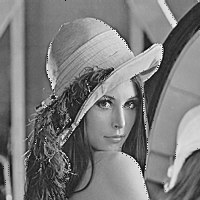
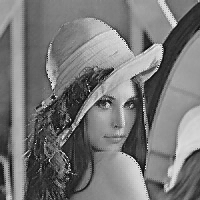
修改一堆bug

diff --git a/src/receiver/reconstruction.py b/src/receiver/reconstruction.py
@@ -40,12 +40,13 @@ class Receiver:
             while j < self.W:
                 if self.LM[i, j] == 1:
                     # print(data_k)
+                    data_k = 0
                     if length < b_length:
                         self.data <<= 1
                         data_k = int(self.ans[i, j] / 128)
                         self.data = self.data | data_k
                         length += 1
-                    self.ans[i, j] = 0
+                    self.ans[i, j] -= 128 * data_k
                 j += 1
             i, j = i + 1, 0
         self.data = bin(self.data)[-1:1:-1]
@@ -87,7 +88,7 @@ class Receiver:
                 j += 1
             i += 1
             j = 0
-        # Receiver.save(self.PEE, 'PEE.png')
+        Receiver.save(self.PEE, 'PEE.png')
 
         #将图片分解为四部分
         #得到PE_stars(PEA)
@@ -101,7 +102,7 @@ class Receiver:
                 self.PE_stars[2][i, j] = self.PEE[2 * i + 1, 2 * j]
                 self.PE_stars[3][i, j] = self.PEE[2 * i + 1, 2 * j + 1]
         self.PEAs_whole = Receiver.composition(self.PE_stars[0], self.PE_stars[1], self.PE_stars[2], self.PE_stars[3])
-        # Receiver.save(self.PEAs_whole, 'PEAs.png')
+        Receiver.save(self.PEAs_whole, 'PEAs.png')
 
         #由I[0]获得预测矩阵Ps
         for i in range(0, 4):
@@ -111,14 +112,14 @@ class Receiver:
         self.__predict02()
         self.__predict03()
         self.Ps_whole = Receiver.composition(self.Ps[0], self.Ps[1], self.Ps[2], self.Ps[3])
-        # Receiver.save(self.Ps_whole, 'Ps.png')
+        Receiver.save(self.Ps_whole, 'Ps.png')
 
         #PEEs加上预测矩阵Ps
         #得到Is
         for j in range(1, 4):
             self.Is[j] += self.Ps[j]
         self.Is_whole = Receiver.composition(self.Is[0], self.Is[1], self.Is[2], self.Is[3])
-        # Receiver.save(self.Is_whole, 'Is.png')
+        Receiver.save(self.Is_whole, 'Is.png')
 
         #将Is四部分按原放回
         #得到复原图res
@@ -130,7 +131,7 @@ class Receiver:
                 self.res_img[2 * i, 2 * j + 1] = self.Is[1][i, j]
                 self.res_img[2 * i + 1, 2 * j] = self.Is[2][i, j]
                 self.res_img[2 * i + 1, 2 * j + 1] = self.Is[3][i, j]
-        # Receiver.save(self.res_img, 'res.png')
+        Receiver.save(self.res_img, 'res.png')
 
     @staticmethod
     def predict_method1(a, b):
@@ -146,8 +147,9 @@ class Receiver:
         self.Ps[1] = np.zeros((h, w), np.int)
         for i in range(h):
             for j in range(w):
-                if i < h - 1:
-                    self.Ps[1][i, j] = self.predict_method(I0[i, j], I0[i + 1, j])
+                if j < w - 1:
+                    # self.Ps[1][i, j] = self.predict_method(I0[i, j], I0[i + 1, j])
+                    self.Ps[1][i, j] = self.predict_method(I0[i, j], I0[i, j + 1])
                 else:
                     self.Ps[1][i, j] = I0[i, j]
 
@@ -157,8 +159,9 @@ class Receiver:
         self.Ps[2] = np.zeros((h, w), np.int)
         for i in range(h):
             for j in range(w):
-                if j < w - 1:
-                    self.Ps[2][i, j] = self.predict_method(I0[i, j + 1], I0[i, j])
+                if i < h - 1:
+                    # self.Ps[2][i, j] = self.predict_method(I0[i, j + 1], I0[i, j])
+                    self.Ps[2][i, j] = self.predict_method(I0[i, j], I0[i + 1, j])
                 else:
                     self.Ps[2][i, j] = I0[i, j]
 
@@ -195,6 +198,7 @@ class Receiver:
         :param pth: 存储的路径
         :return:
         """
+        root_path = pu.get_root_path()
         out = pu.path_join(root_path, pu.REC_PATH)
         pth = pu.path_join(out, name)
         iu.save_img(img, pth)

diff --git a/src/encryption/encryptor.py b/src/encryption/encryptor.py
@@ -74,19 +74,26 @@ class Encryptor:
             # self.PEs[i] = self.Ps[i] - self.Is[i]
             self.PEs.append(self.Is[i] - self.Ps[i])
         self.PE_stars.append(np.copy(self.Is[0]))
-        for i in range(1, 4):
-            self.PE_stars.append(np.copy(self.PEs[i]))
-            self.PE_stars[i][self.PE_stars[i] < 0] = abs(self.PE_stars[i][self.PE_stars[i] < 0]) + 64
-        # 计算PEA
         self.PEAs.append(np.copy(self.PE_stars[0]))
         self.raw_LM.append(np.zeros(self.PEAs[0].shape, np.bool))
         for i in range(1, 4):
-            self.PEAs.append(np.copy(self.PE_stars[i]))
+            self.PE_stars.append(np.copy(self.PEs[i]))
             temp = np.zeros(self.Is[i].shape, np.bool)
-            temp[self.PE_stars[i] < 64] = 1
+            temp[self.PE_stars[i] >= 0] = 1
+            self.PE_stars[i][self.PE_stars[i] < 0] = abs(self.PE_stars[i][self.PE_stars[i] < 0]) + 64
             self.raw_LM.append(temp)
-            # self.PEAs[i][self.PE_stars[i] > 64] = self.PEAs[i][self.PE_stars[i] > 64] | 0b10000000
-            # self.PEAs[i][self.PE_stars[i] < 64] = self.PEAs[i][self.PE_stars[i] < 64] & 0b01111111
+            self.PEAs.append(np.copy(self.PE_stars[i]))
+
+        # # 计算PEA
+        # self.PEAs.append(np.copy(self.PE_stars[0]))
+        # self.raw_LM.append(np.zeros(self.PEAs[0].shape, np.bool))
+        # for i in range(1, 4):
+        #     self.PEAs.append(np.copy(self.PE_stars[i]))
+        #     temp = np.zeros(self.Is[i].shape, np.bool)
+        #     temp[self.PE_stars[i] < 64] = 1
+        #     self.raw_LM.append(temp)
+        #     # self.PEAs[i][self.PE_stars[i] > 64] = self.PEAs[i][self.PE_stars[i] > 64] | 0b10000000
+        #     # self.PEAs[i][self.PE_stars[i] < 64] = self.PEAs[i][self.PE_stars[i] < 64] & 0b01111111
 
     @staticmethod
     def predict_method1(a, b):
@@ -102,8 +109,9 @@ class Encryptor:
         self.Ps[1] = np.zeros((h, w), np.int)
         for i in range(h):
             for j in range(w):
-                if i < h - 1:
-                    self.Ps[1][i, j] = self.predict_method(I0[i, j], I0[i + 1, j])
+                if j < w - 1:
+                    # self.Ps[1][i, j] = self.predict_method(I0[i, j], I0[i + 1, j])
+                    self.Ps[1][i, j] = self.predict_method(I0[i, j], I0[i, j + 1])
                 else:
                     self.Ps[1][i, j] = I0[i, j]
 
@@ -113,8 +121,9 @@ class Encryptor:
         self.Ps[2] = np.zeros((h, w), np.int)
         for i in range(h):
             for j in range(w):
-                if j < w - 1:
-                    self.Ps[2][i, j] = self.predict_method(I0[i, j + 1], I0[i, j])
+                if i < h - 1:
+                    # self.Ps[2][i, j] = self.predict_method(I0[i, j + 1], I0[i, j])
+                    self.Ps[2][i, j] = self.predict_method(I0[i, j], I0[i + 1, j])
                 else:
                     self.Ps[2][i, j] = I0[i, j]
 

diff --git a/src/main.py b/src/main.py
@@ -1,23 +1,35 @@
 import src.util.image_util as iu
 import src.util.path_util as pu
 import cv2
+from src.util.encrypt_util import encrypt
+from src.receiver.decryption import decryptioner, secretKey
+import numpy as np
 
 if __name__ == '__main__':
+    # root_path = pu.get_root_path()
+    # file_name = "200px-Lenna.jpg"
+    # file_path = pu.path_join(root_path, pu.INPUT_PATH, file_name)
+    #
+    # gray_lena = iu.read_img(file_path, iu.READ_GRAY)
+    # color_lena = iu.read_img(file_path, iu.READ_COLOR)
+    #
+    # lab_lena = cv2.cvtColor(color_lena, cv2.COLOR_RGB2LAB)
+    # iu.print_img(lab_lena)
+    #
+    # iu.print_img(gray_lena, "gray lena")
+    # iu.print_img(color_lena, "colorful lena")
+    #
+    # out_file_name = "200px-Gray-Lenna.jpg"
+    # out_file_path = pu.path_join(root_path, pu.OUTPUT_PATH, out_file_name)
+    #
+    # # iu.save_img(gray_lena, out_file_path)
+    # iu.print_imgs(gray_lena, color_lena)
+
     root_path = pu.get_root_path()
-    file_name = "200px-Lenna.jpg"
-    file_path = pu.path_join(root_path, pu.INPUT_PATH, file_name)
+    img = iu.read_img(pu.path_join(root_path, "static/input/trees.png"), iu.READ_GRAY)
 
-    gray_lena = iu.read_img(file_path, iu.READ_GRAY)
-    color_lena = iu.read_img(file_path, iu.READ_COLOR)
+    e = encrypt(img, secretKey, 256)
+    d = decryptioner(e, secretKey, 256)
 
-    lab_lena = cv2.cvtColor(color_lena, cv2.COLOR_RGB2LAB)
-    iu.print_img(lab_lena)
-
-    iu.print_img(gray_lena, "gray lena")
-    iu.print_img(color_lena, "colorful lena")
-
-    out_file_name = "200px-Gray-Lenna.jpg"
-    out_file_path = pu.path_join(root_path, pu.OUTPUT_PATH, out_file_name)
-
-    # iu.save_img(gray_lena, out_file_path)
-    iu.print_imgs(gray_lena, color_lena)
+    diff = np.sum(abs(d.astype(np.int) - img.astype(np.int)))
+    print(diff)

diff --git a/src/analysis/analysis.py b/src/analysis/analysis.py
@@ -1,4 +1,5 @@
-import numpy as np
+import src.util.image_util as iu
+import src.util.path_util as pu
 import math
 
 
@@ -37,32 +38,43 @@ def ent_analysis(x):
             current = x[i, j]
             if current not in labels.keys():
                 labels[current] = 0
-        labels[current] += 1
+            labels[current] += 1
     shannon_ent = 0.0  # 香农熵
     chi_ent = 0.0  # χ2
     for key in labels:
         prob = float(labels[key]) / scale  # 选择该标签的概率
-        shannon_ent -= prob * log(prob, 2)
+        if prob == 0:
+            continue
+        shannon_ent -= prob * math.log(prob, 2)
         chi_ent += (prob - 1 / 256) ** 2
     chi_ent = chi_ent * 256 * scale
     return shannon_ent, chi_ent
 
 
-def npcr_uaci_analysis(x,y):
+def npcr_uaci_analysis(x, y):
     [rows, cols] = x.shape
     scale = rows * cols
-    npcr=0.0
-    uaci=0.0
+    npcr = 0.0
+    uaci = 0.0
     for i in range(rows):
         for j in range(cols):
-            d=x[i,j]-y[i,j]
-            if d==0:
-                d=1
+            d = x[i, j] - y[i, j]
+            if d == 0:
+                d = 1
             else:
-                d=0
-            npcr+=d
-            uaci+=abs(x[i,j]-y[i,j])
-    npcr/=scale
-    uaci/=255*scale
-    return npcr,uaci
+                d = 0
+            npcr += d
+            uaci += abs(x[i, j] - y[i, j])
+    npcr /= scale
+    uaci /= (255 * scale)
+    return 1 - npcr, uaci
 
+
+if __name__ == "__main__":
+    root_path = pu.get_root_path()
+    img1 = iu.read_img(pu.path_join(root_path, "static/test/unchanged/image.png"), iu.READ_GRAY)
+    img2 = iu.read_img(pu.path_join(root_path, "static/test/changed/image.png"), iu.READ_GRAY)
+
+    print(npcr_uaci_analysis(img1, img2))
+    print(ent_analysis(img2))
+    print(cor_analysis(img1, img2))

diff --git a/src/receiver/decryption.py b/src/receiver/decryption.py
@@ -1,7 +1,9 @@
 import numpy
 import math
-
+import src.util.image_util as iu
+import src.util.path_util as pu
 from src.encryption_2d_lscm.InitialStateGeneration import init_confusion_matrix, init_states
+import numpy as np
 
 # 测试数据
 '''
@@ -22,6 +24,7 @@ secretKey = {
     "a4": [1, 0, 1, 1, 0, 1, 1, 0, 1, 1, 1, 0, 1, 1, 0, 0, 1, 0, 1, 0, 1, 1, 0, 1, 1]
 }
 
+
 def reverse_row_diffusion(C, init_matix, F, M, N):
     """
         反向扩散
@@ -34,7 +37,7 @@ def reverse_row_diffusion(C, init_matix, F, M, N):
         """
     G = N
     res = numpy.zeros_like(C)
-    for i in range(G-1,-1,-1):
+    for i in range(G - 1, -1, -1):
         if i >= 2:
             tmp = (C[:, i] - C[:, i - 1] - C[:, i - 2] - numpy.floor(init_matix[:, i] * (2 ** 32))) % F
         elif i == 1:
@@ -60,9 +63,9 @@ def reverse_col_diffusion(C, init_matix, F, M, N):
         """
     G = M
     res = numpy.zeros_like(C)
-    for i in range(G-1,-1,-1):
+    for i in range(G - 1, -1, -1):
         if i >= 2:
-            tmp = (C[i] - C[i - 1] - C[i- 2] - numpy.floor(init_matix[i] * (2 ** 32))) % F
+            tmp = (C[i] - C[i - 1] - C[i - 2] - numpy.floor(init_matix[i] * (2 ** 32))) % F
         elif i == 1:
             tmp = (C[1] - C[0] - res[G - 1] - numpy.floor(init_matix[i] * (2 ** 32))) % F
         else:
@@ -145,7 +148,7 @@ def decryptioner(res, S, F):
     M, N = res.shape
     init_matixs = init_confusion_matrix(M, N, init_states(S))
     # 取出LM
-    for i in range(3, -1,-1):
+    for i in range(3, -1, -1):
         # 反向扩散
         res = reverse_diffusion(res, init_matixs[i], F, M, N)
         res = reverse_permutation(res, init_matixs[i], M, N)

diff --git a/src/integration/reversible_data_hidig.py b/src/integration/reversible_data_hidig.py
@@ -30,9 +30,9 @@ class ReversibleDataHiding:
 
     def decrypt(self, img=None, LM=None, LM_encrypted=True, pth="static/integral"):
         if img is None:
-            img = iu.read_img(pu.path_join(self.root_path, "static", "integral", "image.png"))
+            img = iu.read_img(pu.path_join(self.root_path, pth, "image.png"))
         if LM is None:
-            LM = iu.read_img(pu.path_join(self.root_path, "static", "integral", "LM.png"))
+            LM = iu.read_img(pu.path_join(self.root_path, pth, "LM.png"))
         r = Receiver(img, LM, LM_encrypted)
         r.decryption()
         r.data_extraction(self.data_length)
@@ -49,7 +49,15 @@ if __name__ == '__main__':
     file_path = pu.path_join(root_path, pu.INPUT_PATH, file_name)
 
     gray_lena = iu.read_img(file_path, iu.READ_GRAY)
+    changed_gray_lena = gray_lena.copy()
+    changed_gray_lena[100, 100] = 0
 
-    a.encrypt(gray_lena, 0b11111000001111100000)
-    a.decrypt()
+    print("1")
+    a.encrypt(gray_lena, 0b11111000001111100000, pth="static/test/unchanged")
+    print("2")
+    a.decrypt(pth="static/test/unchanged")
+    # print("3")
+    # a.encrypt(changed_gray_lena, 0b11111000001111100000, pth="static/test/changed")
+    # print("4")
+    # a.decrypt(pth="static/test/changed")
     print(a.r.data)

diff --git a/src/integration/reversible_data_hiding_rgba.py b/src/integration/reversible_data_hiding_rgba.py
@@ -128,8 +128,8 @@ class ReversibleDataHidingRGBA:
 
 if __name__ == '__main__':
     root_path = pu.get_root_path()
-    # file_name = "200px-Lenna.jpg"
-    file_name = "trees.png"
+    file_name = "200px-Lenna.jpg"
+    # file_name = "trees.png"
     file_path = pu.path_join(root_path, pu.INPUT_PATH, file_name)
 
     color_lena = iu.read_img(file_path, iu.READ_COLOR)
